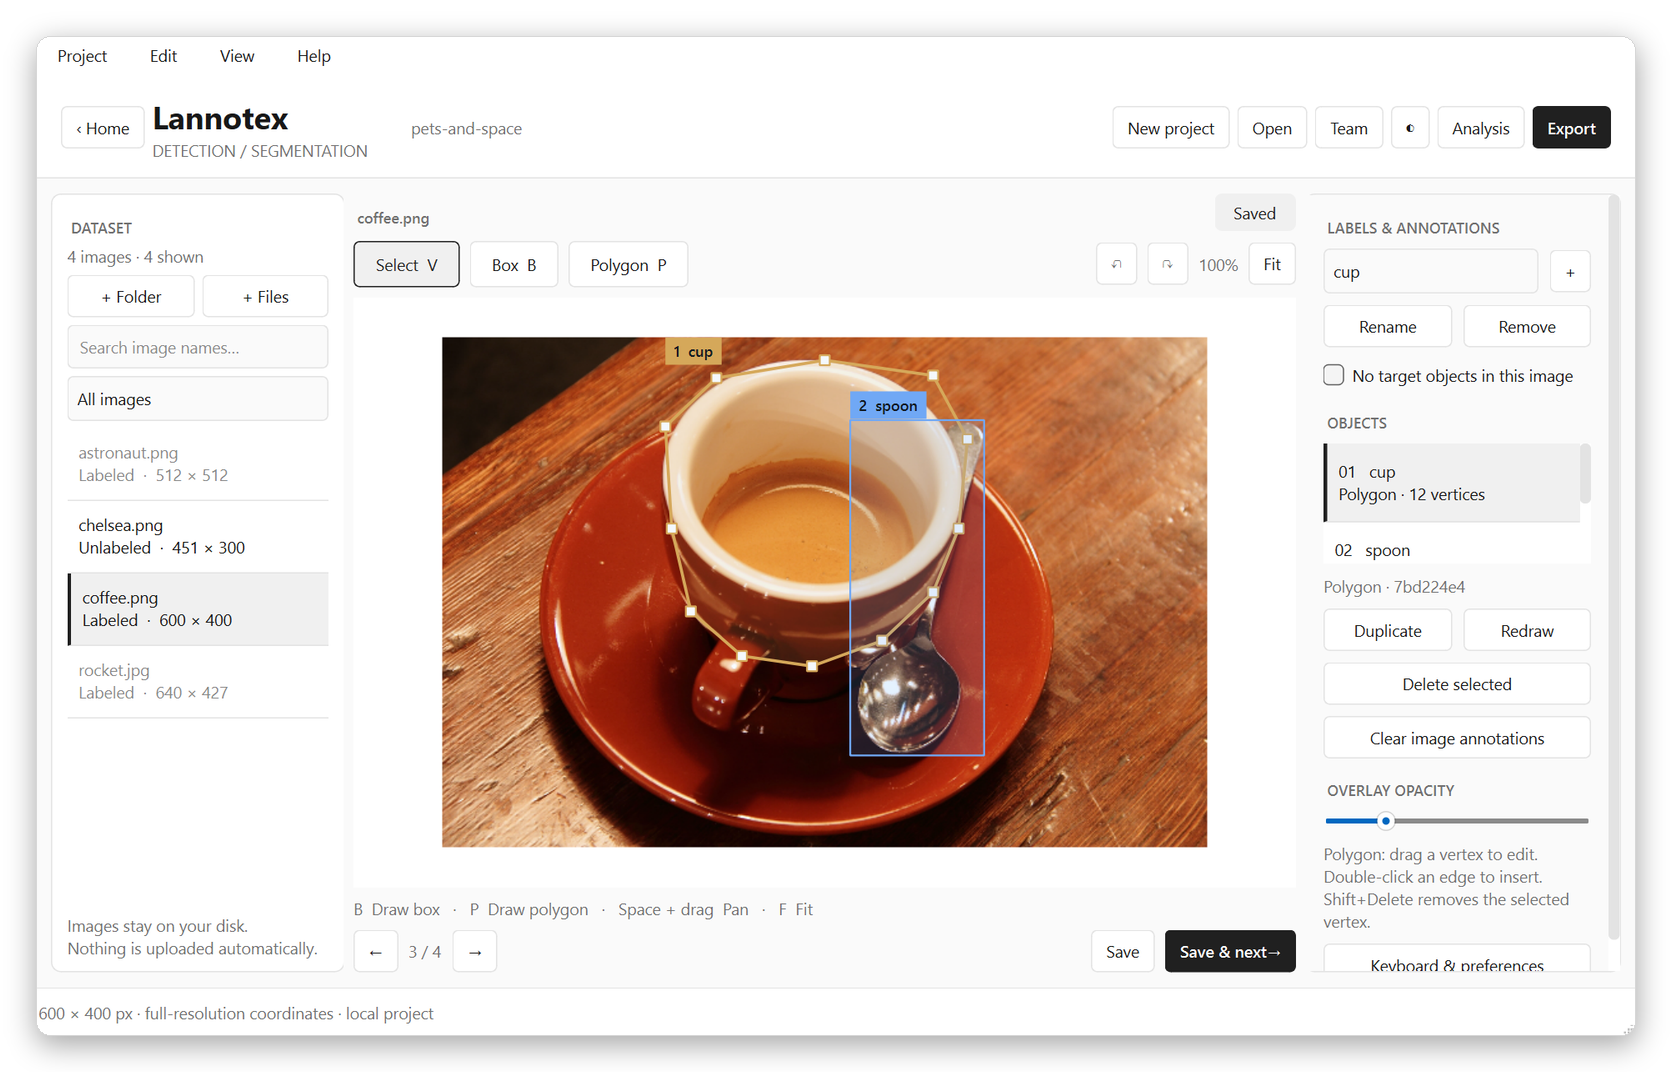
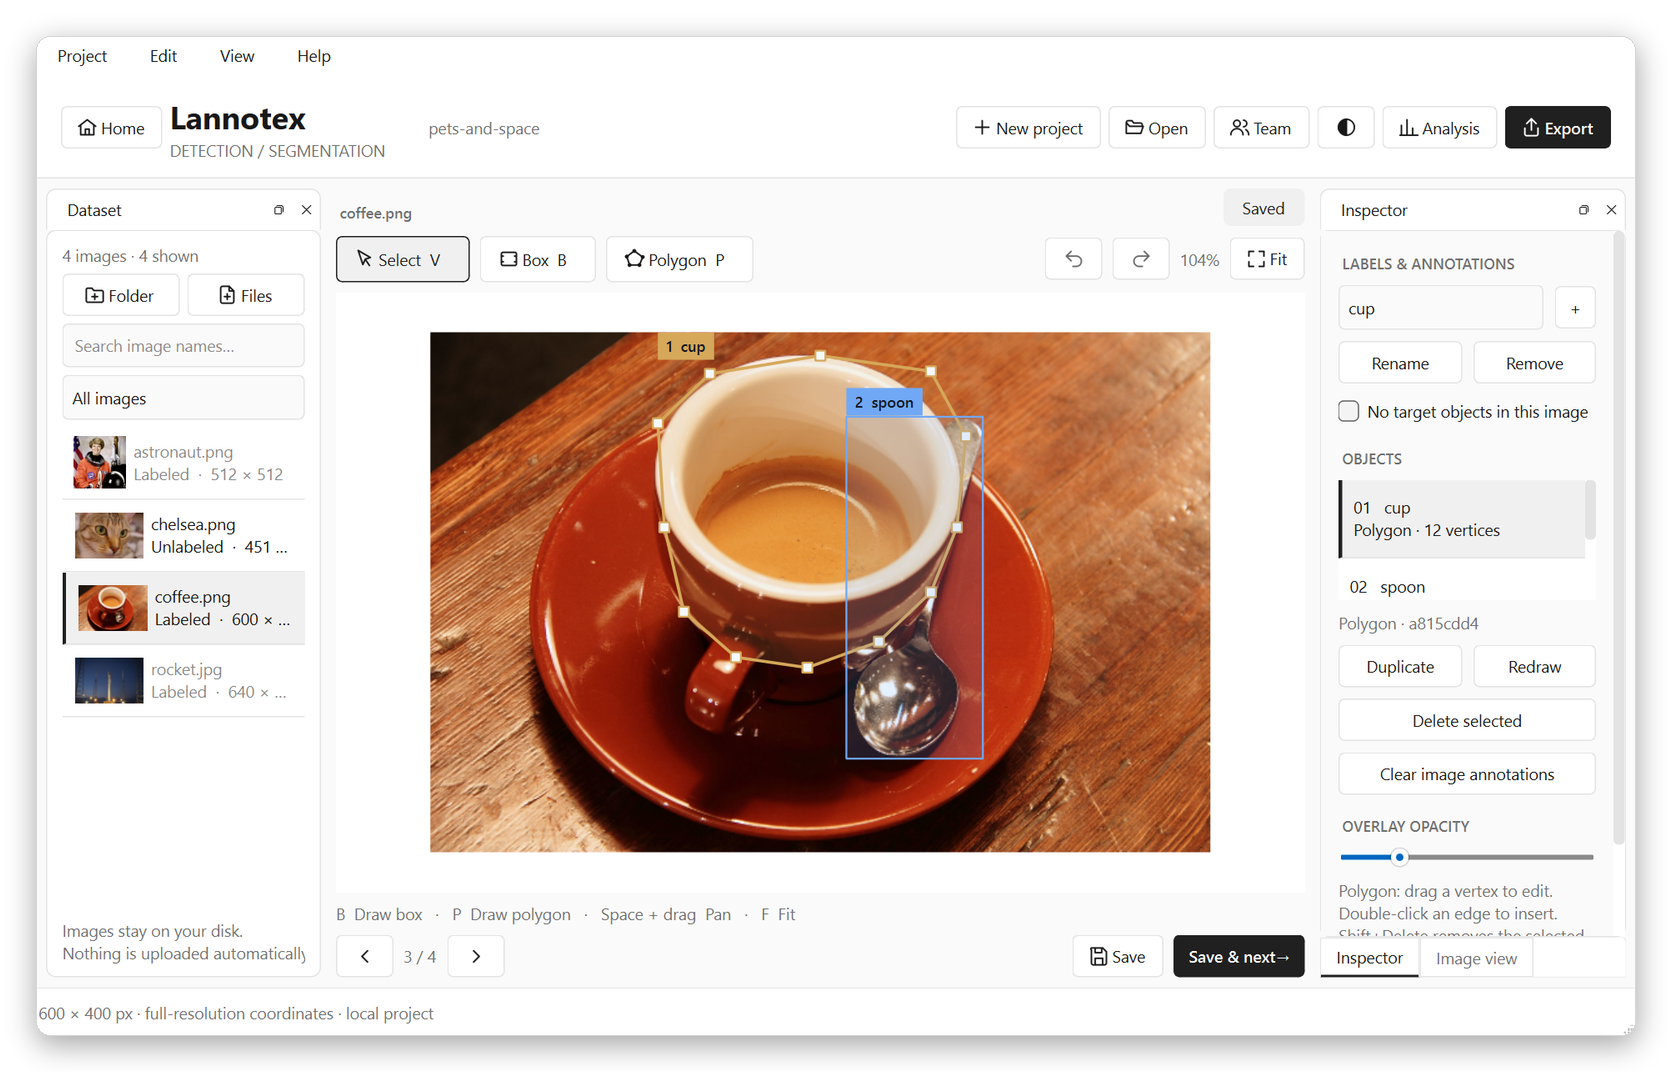
release: v0.2.0 viewing, speed and layout
- Image view shares a tab with the Inspector by default so the object list
  keeps its full height on laptop-sized windows
- README feature table and screenshots/demo refreshed for the new UI

diff --git a/tests/test_ui.py b/tests/test_ui.py
@@ -174,14 +174,16 @@ def test_image_adjustments_change_only_the_display(window,qt,tmp_path):
 def test_dockable_panels_focus_and_layout_presets(window,qt,tmp_path):
     w=window; open_ready(w,qt,project(tmp_path))
     assert set(w.docks)=={'dataset','inspector','view'}
-    assert all(d.isVisible() for d in w.docks.values())
-    w.toggle_focus(); qt.processEvents(); assert not any(d.isVisible() for d in w.docks.values())
-    w.toggle_focus(); qt.processEvents(); assert all(d.isVisible() for d in w.docks.values())
+    shown=lambda d:d.toggleViewAction().isChecked()  # true for a panel behind another tab too
+    assert all(shown(d) for d in w.docks.values()) and w.docks['inspector'].isVisible()
+    assert w.docks['view'] in w.dock_host.tabifiedDockWidgets(w.docks['inspector'])
+    w.toggle_focus(); qt.processEvents(); assert not any(shown(d) for d in w.docks.values())
+    w.toggle_focus(); qt.processEvents(); assert all(shown(d) for d in w.docks.values())
     w.apply_layout('right'); qt.processEvents()
     assert w.dock_host.dockWidgetArea(w.docks['dataset'])==Qt.RightDockWidgetArea
     assert w.docks['dataset'] in w.dock_host.tabifiedDockWidgets(w.docks['inspector'])
     w.docks['view'].hide(); w.apply_layout('default'); qt.processEvents()
-    assert w.dock_host.dockWidgetArea(w.docks['dataset'])==Qt.LeftDockWidgetArea and w.docks['view'].isVisible()
+    assert w.dock_host.dockWidgetArea(w.docks['dataset'])==Qt.LeftDockWidgetArea and shown(w.docks['view'])
     w.toggle_minimap(); assert w.minimap_check.isChecked()==w.canvas.show_minimap
     w.minimap_check.setChecked(not w.minimap_check.isChecked()); assert w.minimap_check.isChecked()==w.canvas.show_minimap
 

diff --git a/src/lannotex/app.py b/src/lannotex/app.py
@@ -213,7 +213,8 @@ class Main(QMainWindow):
             dock.setFeatures(QDockWidget.DockWidgetMovable|QDockWidget.DockWidgetFloatable|QDockWidget.DockWidgetClosable)
             self.dock_host.addDockWidget(area,dock); self.docks[key]=dock
         self.dock_host.resizeDocks([self.docks['dataset'],self.docks['inspector']],[260,290],Qt.Horizontal)
-        self.dock_host.resizeDocks([self.docks['inspector'],self.docks['view']],[620,220],Qt.Vertical)
+        # Image view shares a tab with the Inspector so the object list keeps full height on laptop screens.
+        self.dock_host.tabifyDockWidget(self.docks['inspector'],self.docks['view']); self.docks['inspector'].raise_()
         self.default_layout=self.dock_host.saveState()
         wrap=QWidget(); layout=QVBoxLayout(wrap); layout.setContentsMargins(8,8,8,8); layout.addWidget(self.dock_host)
         outer.addWidget(wrap,1); self.setCentralWidget(root)
@@ -812,7 +813,7 @@ class Main(QMainWindow):
         if name=='right':
             self.dock_host.addDockWidget(Qt.RightDockWidgetArea,self.docks['dataset'])
             self.dock_host.tabifyDockWidget(self.docks['inspector'],self.docks['dataset'])
-            self.docks['inspector'].raise_()
+        self.docks['inspector'].raise_()
 
     def adjustments_changed(self,*_):
         values={key:slider.value() for key,(slider,_,_) in self.adjust_sliders.items()}

diff --git a/src/lannotex/__init__.py b/src/lannotex/__init__.py
@@ -1,2 +1,2 @@
 """Lannotex: offline-first image annotation."""
-__version__ = "0.1.1"
+__version__ = "0.2.0"

diff --git a/README.md b/README.md
@@ -89,6 +89,7 @@ Every shortcut can be remapped. See the [annotating guide](https://lourdhu02.git
 | | |
 | --- | --- |
 | **Annotate** | Bounding boxes · polygons with vertex drag, insert, and delete · multi-label image classes · "no target" negatives · 100-step undo/redo · zoom under the pointer, pan, arrow-key nudging · focus mode · light and dark themes |
+| **View** | Sharp full-resolution zoom up to 6400% · next/previous images decoded ahead · minimap · pixel grid · brightness, contrast and gamma · thumbnails · dockable panels you can float onto a second monitor, with saved layouts · `Ctrl+K` command palette |
 | **Stay safe** | SQLite projects with versioned migrations · recovery drafts and 700 ms autosave · transactional saves · geometry validation · backup and restore · relinking for moved images · EXIF orientation handled |
 | **Scale** | Virtualized image list (at most 1,024 records in memory) · background import and decoding · 96 MB preview cache · coordinates normalized to the original resolution |
 | **Export** | Labelme JSON · ready-to-train YOLO (`images/`, `labels/`, `data.yaml`) · COCO JSON · classification CSV · lossless native JSONL · each export reports anything it skipped |

diff --git a/CHANGELOG.md b/CHANGELOG.md
@@ -6,6 +6,11 @@ adheres to [Semantic Versioning](https://semver.org/spec/v2.0.0.html).
 
 ## [Unreleased]
 
+## [0.2.0] — 2026-10-14
+
+Viewing, speed and layout: sharp zoom on large images, instant navigation, and a
+workspace you can arrange yourself.
+
 ### Added
 
 - **Full-resolution viewing.** Zooming in past the preview loads the original pixels in the
